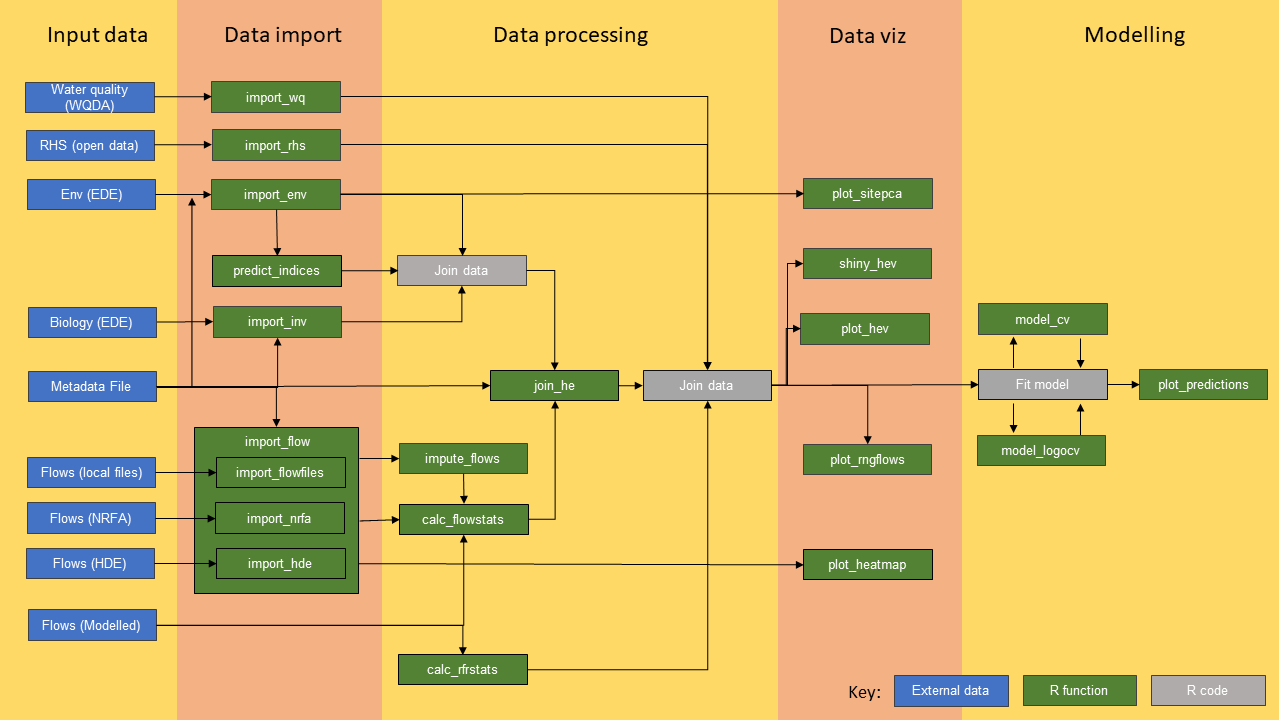
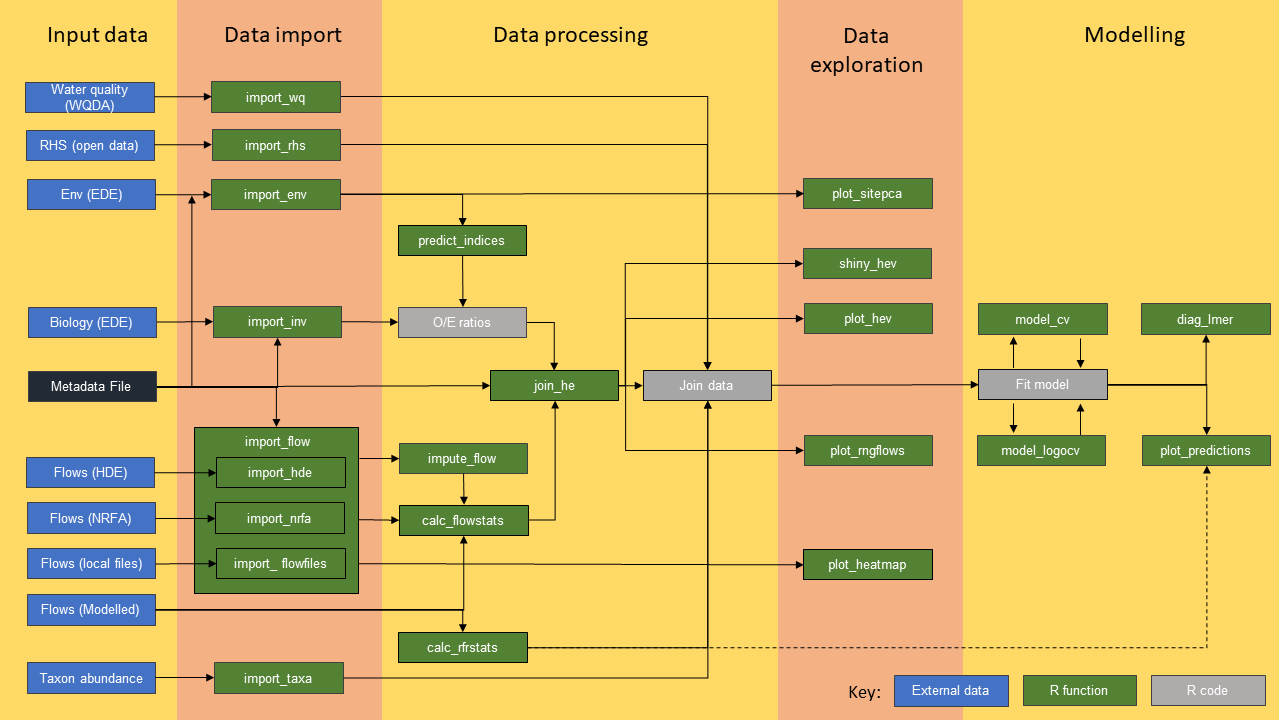
IG 29/11/23 documentation updates

diff --git a/README.md b/README.md
@@ -8,7 +8,7 @@
 
 ## Overview
 
-The `hetoolkit` package comprises a collection of 22 functions for
+The `hetoolkit` package comprises a collection of 23 functions for
 assembling, processing, visualising and modelling hydro-ecological data.
 These are:
 
@@ -30,6 +30,8 @@ These are:
     EA’s Open Data portal;
 -   `import_wq` for importing water quality data from the EA Water
     Quality Archive database;
+-   `import_taxa` for importing taxonomic abundances from the EA Ecology
+    and Fish Data Explorer;
 -   `predict_indices` for calculating expected scores for
     macroinvertebrate indices using the RICT2 model (FBA 2020);
 -   `calc_flowstats` and `calc_rfrstats` for calculating summary
@@ -107,8 +109,8 @@ not affect the running of the toolkit.
 ## Development
 
 The `hetoolkit` package was developed by APEM LTD on behalf on the
-Environment Agency. For further information please contact [Mike
-Dunbar](mailto:mike.dunbar@environment-agency.gov.uk).
+Environment Agency. For further information please contact [Thomas
+Aspin](mailto:Thomas.Aspin@environment-agency.gov.uk).
 
 ## Change history
 
@@ -152,6 +154,12 @@ Minor bug fixes.</td>
 <td>May-2023</td>
 <td>Updates to website.<br />
 Minor update to predict_indices.</td>
+</tr>
+<tr class="odd">
+<td>2.1.2</td>
+<td>Jan-2024</td>
+<td>Added new function import_taxa.<br />
+Bug fix to import_rhs, minor update to import_wq.</td>
 </tr>
 </tbody>
 </table>
